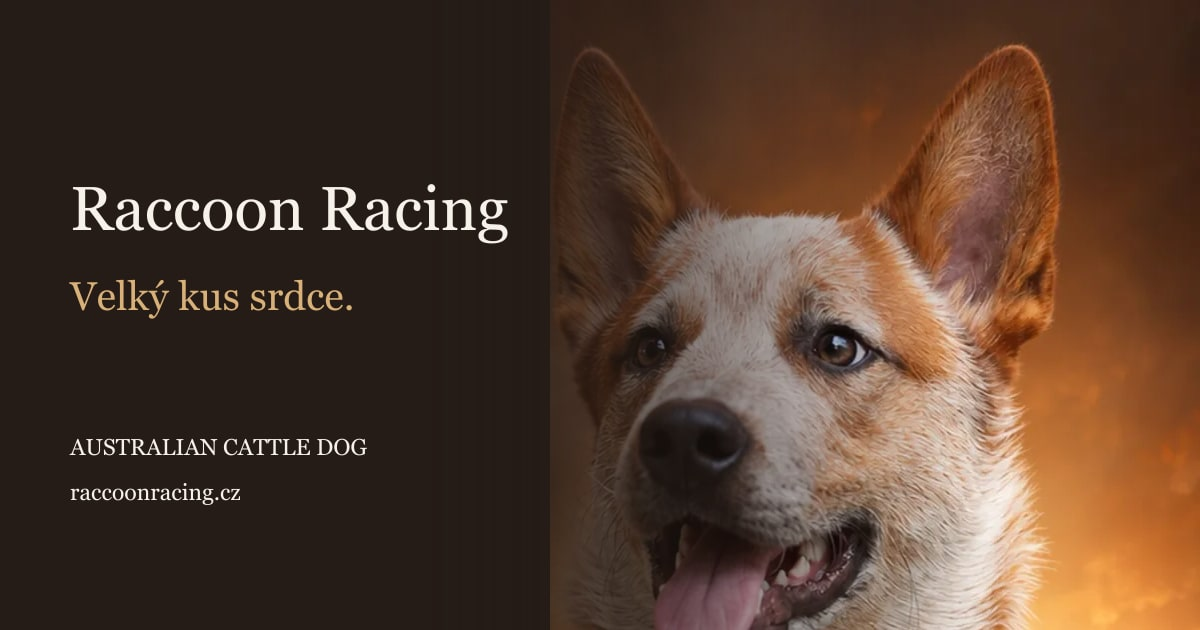
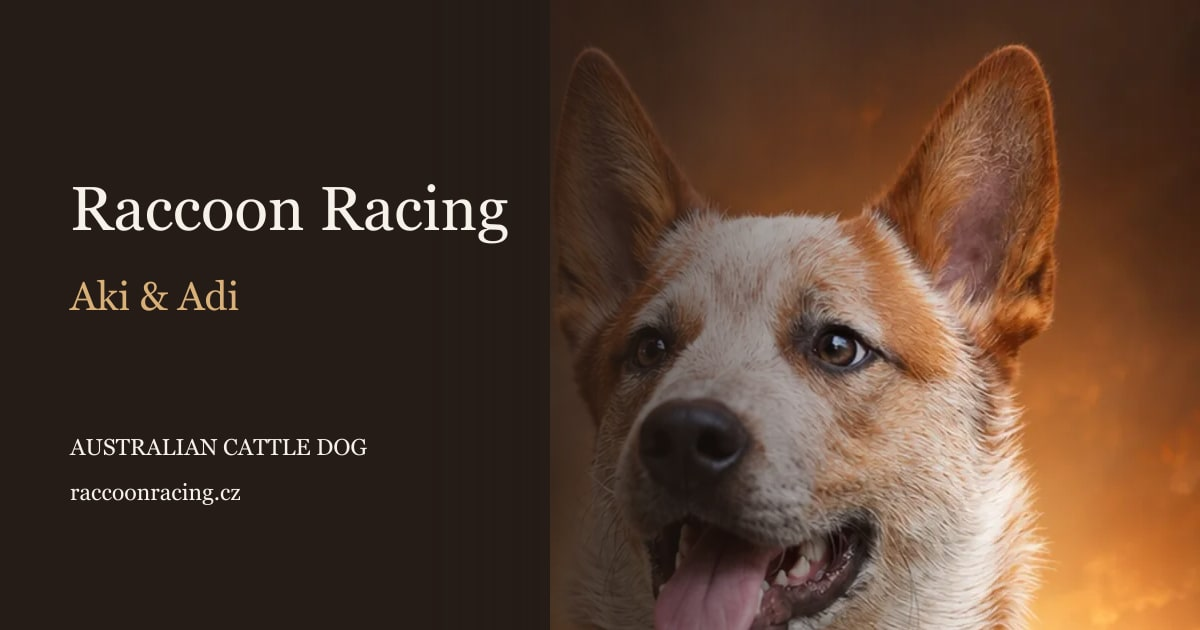
Present Aki and Adi as personal dog pages

Changed region(s): [[0.0617, 0.4222, 0.2775, 0.5127]]

diff --git a/src/styles/global.css b/src/styles/global.css
@@ -112,6 +112,17 @@ p{margin-bottom:20px}
 .health-facts{gap:5px}
 .health-facts>div{grid-template-columns:140px 1fr}
 .dog-copy .underlined-link{margin-top:12px}
+.adi-section{background:var(--cream)}
+.adi-section .dog-copy>p:not(.eyebrow):not(.pedigree-name){color:var(--muted)}
+.adi-facts{margin:25px 0}
+.adi-nameplate{min-height:540px;position:relative;display:flex;flex-direction:column;align-items:center;justify-content:center;padding:45px 25px;background:#eae4d9;border:1px solid #ded3c1;text-align:center;color:var(--copper)}
+.adi-nameplate-label,.adi-nameplate-breed,.adi-nameplate-foot{font-size:8px;letter-spacing:2px;font-weight:600}
+.adi-nameplate-label{position:absolute;top:32px}
+.adi-paw{width:145px;height:145px;stroke:#b99b79;stroke-width:1}
+.adi-name{font-family:var(--font-serif);font-size:115px;line-height:1.1;letter-spacing:-4px;margin:8px 0 18px}
+.adi-name>span{font-family:var(--font-sans);font-size:30px;letter-spacing:0;vertical-align:super;margin-left:15px}
+.adi-nameplate-foot{position:absolute;bottom:32px;font-size:7px;color:var(--muted)}
+@media(max-width:600px){.adi-nameplate{min-height:370px}.adi-paw{width:105px;height:105px}.adi-name{font-size:95px}.adi-nameplate-label{top:24px}.adi-nameplate-foot{bottom:24px}}
 .breed-section{background:#2b261f;color:var(--cream)}
 .breed-heading{display:grid;grid-template-columns:1.5fr 1fr;gap:110px;align-items:end}
 .breed-section .eyebrow{color:var(--gold)}
@@ -125,19 +136,19 @@ p{margin-bottom:20px}
 .breed-note>span{font-size:24px;color:var(--gold)}
 .breed-note p{font-size:12px;color:#c0b4a5;margin:0}
 .breed-note strong{color:#efe1cb;font-weight:500}
-.puppies-layout{display:grid;grid-template-columns:1fr 1fr;gap:100px;align-items:center}
-.puppies-layout>.puppy-process{background:#eee7db;padding:38px 40px}
-.puppies-layout>div>p:not(.eyebrow):not(.lead){color:var(--muted);font-size:13px}
-.puppies-layout .lead{margin-top:27px}
-.puppies-layout .button{margin-top:15px}
+.life-layout{display:grid;grid-template-columns:1fr 1fr;gap:100px;align-items:center}
+.life-layout>.life-notes{background:#eee7db;padding:38px 40px}
+.life-layout>div>p:not(.eyebrow):not(.lead){color:var(--muted);font-size:13px}
+.life-layout .lead{margin-top:27px}
+.life-layout .button{margin-top:15px}
 .availability{font-size:8px;letter-spacing:1.5px;font-weight:600;display:flex;align-items:center;gap:9px;border-bottom:1px solid #d9cebc;padding-bottom:23px;margin-bottom:26px}
 .availability>span{width:6px;height:6px;border-radius:50%;background:#9c703d}
-.puppy-process h3{font-family:var(--font-serif);font-size:31px;font-weight:500}
-.puppy-process ol{padding:0;list-style:none;margin:25px 0}
-.puppy-process li{display:flex;gap:22px;margin-bottom:23px}
-.puppy-process li>span{font-family:var(--font-serif);color:#99734d;font-size:25px;line-height:1.2}
-.puppy-process h4{font-size:12px;font-weight:700;margin:0 0 5px}
-.puppy-process li p{font-size:11px;color:var(--muted);line-height:1.8;margin:0}
+.life-notes h3{font-family:var(--font-serif);font-size:31px;font-weight:500}
+.life-notes ol{padding:0;list-style:none;margin:25px 0}
+.life-notes li{display:flex;gap:22px;margin-bottom:23px}
+.life-notes li>span{font-family:var(--font-serif);color:#99734d;font-size:25px;line-height:1.2}
+.life-notes h4{font-size:12px;font-weight:700;margin:0 0 5px}
+.life-notes li p{font-size:11px;color:var(--muted);line-height:1.8;margin:0}
 .small-note{font-size:10px;border-top:1px solid #d9cebc;padding-top:19px;color:var(--muted);margin-bottom:0}
 .gallery-section{padding-top:0}
 .gallery-heading{display:flex;align-items:flex-end;justify-content:space-between;margin-bottom:38px;gap:30px}
@@ -194,7 +205,7 @@ footer{background:#211a15;color:#bcae9d;padding:37px 0}
 .back-top{font-size:9px;display:flex;align-items:center;gap:18px}
 .back-top span{display:grid;place-items:center;border:1px solid #69523d;width:34px;height:34px;border-radius:50%;font-size:15px}
 @media(min-width:1600px){.hero-image{width:59%}.hero-content{padding-bottom:30px}}
-@media(max-width:1100px){.container{width:calc(100% - 70px)}.navigation{gap:19px}.brand>span{font-size:12px}.brand small{font-size:6px}.brand-mark{width:36px}.navigation .nav-contact{margin-left:0;padding:9px 12px;gap:15px}.section-intro,.dog-layout,.puppies-layout,.faq-layout{gap:55px}.breed-heading,.contact-heading{gap:60px}.dog-visual>img{height:550px}.profile-tabs{gap:17px}.profile-tabs button{font-size:9px}.principles{gap:35px}.gallery-card{height:340px}}
-@media(max-width:850px){.container{width:calc(100% - 48px)}.header-inner{height:80px}.brand>span{font-size:13px}.brand small{font-size:7px}.menu-toggle{display:block;border:1px solid #8a735b;background:transparent;color:var(--gold);width:40px;height:38px;font-size:20px}.navigation{display:none;position:absolute;left:0;right:0;top:80px;padding:23px 24px;background:#251c17;border-bottom:1px solid #8a735b;font-size:14px}.navigation.is-open{display:flex;flex-direction:column;align-items:stretch;gap:0}.navigation>a{padding:12px}.navigation .nav-contact{margin-top:15px;justify-content:space-between}.hero{height:720px;min-height:650px}.hero h1{font-size:72px}.hero .eyebrow{font-size:8px}.hero-image{width:80%}.hero-shade{background:linear-gradient(90deg,#241b16fa,#241b16a0 45%,#241b1610),linear-gradient(0deg,#241b16b3,transparent 50%)}.section{padding:80px 0}.section-intro{gap:40px}.section-intro h2{font-size:49px}.intro-copy .lead{font-size:15px}.intro-copy>p{font-size:12px}.principles{margin-top:50px;gap:27px}.principles h3{font-size:14px}.dog-layout{gap:35px}.dog-visual>img{height:530px}.dog-copy h2{font-size:63px}.dog-copy .eyebrow{font-size:9px}.profile-tabs{gap:12px;flex-wrap:wrap}.profile-tabs button{font-size:8px;padding-bottom:10px}.profile-facts>div{grid-template-columns:70px 1fr;font-size:10px}.tab-panel{min-height:325px}.health-facts>div{grid-template-columns:115px 1fr}.breed-heading{gap:40px}.breed-heading h2{font-size:52px}.breed-grid{gap:30px}.puppies-layout{gap:35px}.puppies-layout h2{font-size:52px}.puppies-layout>.puppy-process{padding:30px 25px}.puppies-layout .lead{font-size:15px}.puppy-process h3{font-size:27px}.gallery-section{padding-top:0}.gallery-grid{gap:12px}.gallery-card{height:300px}.gallery-overlay{padding:18px}.gallery-overlay>span{font-size:22px}.faq-layout{grid-template-columns:1fr 1.2fr;gap:40px}.faq-layout h2{font-size:43px}.contact-heading{gap:50px}.contact-heading h2{font-size:54px}.contacts{gap:50px}.contacts a{font-size:17px}.contacts h3{font-size:31px}}
-@media(max-width:600px){html{scroll-padding-top:25px}.container{width:calc(100% - 40px)}.section{padding:68px 0}.header-inner{height:76px}.navigation{top:76px}.brand-mark{width:34px}.brand>span{font-size:12px}.brand small{font-size:6px;letter-spacing:2.7px}.hero{height:720px;min-height:calc(100svh - 76px);max-height:850px;align-items:flex-start}.hero-image{width:100%;height:70%;top:auto;bottom:0}.hero-image img{object-position:60% 25%}.hero-shade{background:linear-gradient(180deg,#241b16 0%,#241b16f8 15%,#241b16b3 39%,#241b1620 69%,#241b16b3 100%),linear-gradient(90deg,#241b1670,transparent)}.hero-content{padding-top:48px;padding-bottom:0}.hero .eyebrow{font-size:7px;letter-spacing:1.2px;gap:9px;margin-bottom:25px}.little-line{width:20px}.hero h1{font-size:55px;letter-spacing:-2px;line-height:1.04}.hero-description{font-size:12px;margin-top:22px;margin-bottom:23px}.hero-actions{gap:24px}.button{font-size:10px;padding:13px 17px;gap:22px;min-height:49px}.hero .text-link{font-size:10px;gap:10px}.hero-bottom{bottom:24px}.hero-caption strong{font-size:29px}.hero-caption small{font-size:6px}.hero-caption>span{font-size:6px;letter-spacing:1.3px}.scroll-cue{font-size:6px;letter-spacing:1px;gap:10px}.scroll-cue>span{width:28px;height:37px;font-size:15px}.values-strip{padding:17px 0}.values-strip .container{display:grid;grid-template-columns:1fr auto 1fr;gap:10px;text-align:center}.values-strip span{font-size:7px;letter-spacing:1px}.values-strip span:nth-of-type(n+3),.values-strip i:nth-of-type(n+2){display:none}.values-strip i{font-size:13px}h2{font-size:48px;letter-spacing:-1.7px}.eyebrow{font-size:8px;letter-spacing:1.8px;margin-bottom:22px}.section-intro,.dog-layout,.breed-heading,.puppies-layout,.faq-layout,.contact-heading{grid-template-columns:1fr;gap:30px}.section-intro h2{font-size:50px}.intro-copy{padding:0}.intro-copy .lead{font-size:15px}.intro-copy>p{font-size:13px}.principles{grid-template-columns:1fr;gap:26px;margin-top:40px;padding-top:30px}.principles article{display:grid;grid-template-columns:35px 1fr;column-gap:15px}.principle-number{grid-row:span 2;margin:0;font-size:25px}.principles h3{font-size:15px;margin-bottom:10px}.principles p{font-size:12px}.dog-layout{gap:40px}.dog-visual{margin-right:10px}.dog-visual>img{height:440px}.dog-number{font-size:80px;top:-22px;right:-14px}.photo-label{font-size:6px;padding-inline:18px}.dog-copy h2{font-size:68px}.dog-copy .eyebrow{font-size:8px}.pedigree-name{margin-bottom:18px}.profile-tabs{gap:23px}.profile-tabs button{font-size:10px}.tab-panel{min-height:280px;font-size:13px}.profile-facts>div{grid-template-columns:85px 1fr;font-size:11px}.health-facts>div{grid-template-columns:140px 1fr}.breed-heading h2{font-size:49px}.breed-heading>p{max-width:none;font-size:13px}.breed-grid{grid-template-columns:1fr;margin-top:40px;gap:30px}.breed-grid article{display:grid;grid-template-columns:30px 1fr;gap:0 20px}.breed-icon{grid-row:span 2;font-size:29px}.breed-grid h3{font-size:15px;margin-bottom:10px}.breed-grid p{font-size:12px}.breed-note{margin-top:35px;gap:15px;align-items:flex-start}.breed-note p{font-size:11px}.puppies-layout h2{font-size:49px}.puppies-layout{gap:35px}.puppies-layout>.puppy-process{padding:30px}.puppies-layout .lead{font-size:15px}.gallery-section{padding-top:0}.gallery-heading{display:block;margin-bottom:26px}.gallery-heading h2{font-size:48px}.gallery-heading>p{margin-top:23px;font-size:11px}.gallery-grid{grid-template-columns:1fr 1fr;gap:13px}.gallery-card{height:280px}.gallery-card-0{grid-column:span 2;height:380px}.gallery-overlay{padding:18px}.gallery-overlay>span{font-size:23px}.gallery-card:not(.gallery-card-0) .gallery-overlay>span{font-size:21px}.gallery-overlay small{font-size:6px;letter-spacing:1px}.faq-layout{gap:24px}.faq-layout h2{font-size:47px}.faq-layout>div>p:not(.eyebrow){max-width:none}.faq-item h3 button{font-size:12px;padding-block:20px}.faq-item p{padding-right:15px}.contact-heading h2{font-size:50px}.contact-heading>p{font-size:13px;max-width:none}.contacts{grid-template-columns:1fr;gap:32px;margin-top:35px}.contacts article{gap:19px;padding-top:23px}.contacts h3{font-size:32px;margin-bottom:12px}.contacts a{font-size:21px}.contacts a.email{font-size:12px}.contact-footnote{margin-top:30px;display:block;font-size:6px;line-height:2.5}.contact-footnote>span{display:block}.footer-inner{flex-wrap:wrap;gap:23px}.footer-brand{font-size:12px}.footer-inner p{font-size:8px}.back-top{width:100%;justify-content:space-between;border-top:1px solid #ffffff15;padding-top:20px}}
+@media(max-width:1100px){.container{width:calc(100% - 70px)}.navigation{gap:19px}.brand>span{font-size:12px}.brand small{font-size:6px}.brand-mark{width:36px}.navigation .nav-contact{margin-left:0;padding:9px 12px;gap:15px}.section-intro,.dog-layout,.life-layout,.faq-layout{gap:55px}.breed-heading,.contact-heading{gap:60px}.dog-visual>img{height:550px}.profile-tabs{gap:17px}.profile-tabs button{font-size:9px}.principles{gap:35px}.gallery-card{height:340px}}
+@media(max-width:850px){.container{width:calc(100% - 48px)}.header-inner{height:80px}.brand>span{font-size:13px}.brand small{font-size:7px}.menu-toggle{display:block;border:1px solid #8a735b;background:transparent;color:var(--gold);width:40px;height:38px;font-size:20px}.navigation{display:none;position:absolute;left:0;right:0;top:80px;padding:23px 24px;background:#251c17;border-bottom:1px solid #8a735b;font-size:14px}.navigation.is-open{display:flex;flex-direction:column;align-items:stretch;gap:0}.navigation>a{padding:12px}.navigation .nav-contact{margin-top:15px;justify-content:space-between}.hero{height:720px;min-height:650px}.hero h1{font-size:72px}.hero .eyebrow{font-size:8px}.hero-image{width:80%}.hero-shade{background:linear-gradient(90deg,#241b16fa,#241b16a0 45%,#241b1610),linear-gradient(0deg,#241b16b3,transparent 50%)}.section{padding:80px 0}.section-intro{gap:40px}.section-intro h2{font-size:49px}.intro-copy .lead{font-size:15px}.intro-copy>p{font-size:12px}.principles{margin-top:50px;gap:27px}.principles h3{font-size:14px}.dog-layout{gap:35px}.dog-visual>img{height:530px}.dog-copy h2{font-size:63px}.dog-copy .eyebrow{font-size:9px}.profile-tabs{gap:12px;flex-wrap:wrap}.profile-tabs button{font-size:8px;padding-bottom:10px}.profile-facts>div{grid-template-columns:70px 1fr;font-size:10px}.tab-panel{min-height:325px}.health-facts>div{grid-template-columns:115px 1fr}.breed-heading{gap:40px}.breed-heading h2{font-size:52px}.breed-grid{gap:30px}.life-layout{gap:35px}.life-layout h2{font-size:52px}.life-layout>.life-notes{padding:30px 25px}.life-layout .lead{font-size:15px}.life-notes h3{font-size:27px}.gallery-section{padding-top:0}.gallery-grid{gap:12px}.gallery-card{height:300px}.gallery-overlay{padding:18px}.gallery-overlay>span{font-size:22px}.faq-layout{grid-template-columns:1fr 1.2fr;gap:40px}.faq-layout h2{font-size:43px}.contact-heading{gap:50px}.contact-heading h2{font-size:54px}.contacts{gap:50px}.contacts a{font-size:17px}.contacts h3{font-size:31px}}
+@media(max-width:600px){html{scroll-padding-top:25px}.container{width:calc(100% - 40px)}.section{padding:68px 0}.header-inner{height:76px}.navigation{top:76px}.brand-mark{width:34px}.brand>span{font-size:12px}.brand small{font-size:6px;letter-spacing:2.7px}.hero{height:720px;min-height:calc(100svh - 76px);max-height:850px;align-items:flex-start}.hero-image{width:100%;height:70%;top:auto;bottom:0}.hero-image img{object-position:60% 25%}.hero-shade{background:linear-gradient(180deg,#241b16 0%,#241b16f8 15%,#241b16b3 39%,#241b1620 69%,#241b16b3 100%),linear-gradient(90deg,#241b1670,transparent)}.hero-content{padding-top:48px;padding-bottom:0}.hero .eyebrow{font-size:7px;letter-spacing:1.2px;gap:9px;margin-bottom:25px}.little-line{width:20px}.hero h1{font-size:55px;letter-spacing:-2px;line-height:1.04}.hero-description{font-size:12px;margin-top:22px;margin-bottom:23px}.hero-actions{gap:24px}.button{font-size:10px;padding:13px 17px;gap:22px;min-height:49px}.hero .text-link{font-size:10px;gap:10px}.hero-bottom{bottom:24px}.hero-caption strong{font-size:29px}.hero-caption small{font-size:6px}.hero-caption>span{font-size:6px;letter-spacing:1.3px}.scroll-cue{font-size:6px;letter-spacing:1px;gap:10px}.scroll-cue>span{width:28px;height:37px;font-size:15px}.values-strip{padding:17px 0}.values-strip .container{display:grid;grid-template-columns:1fr auto 1fr;gap:10px;text-align:center}.values-strip span{font-size:7px;letter-spacing:1px}.values-strip span:nth-of-type(n+3),.values-strip i:nth-of-type(n+2){display:none}.values-strip i{font-size:13px}h2{font-size:48px;letter-spacing:-1.7px}.eyebrow{font-size:8px;letter-spacing:1.8px;margin-bottom:22px}.section-intro,.dog-layout,.breed-heading,.life-layout,.faq-layout,.contact-heading{grid-template-columns:1fr;gap:30px}.section-intro h2{font-size:50px}.intro-copy{padding:0}.intro-copy .lead{font-size:15px}.intro-copy>p{font-size:13px}.principles{grid-template-columns:1fr;gap:26px;margin-top:40px;padding-top:30px}.principles article{display:grid;grid-template-columns:35px 1fr;column-gap:15px}.principle-number{grid-row:span 2;margin:0;font-size:25px}.principles h3{font-size:15px;margin-bottom:10px}.principles p{font-size:12px}.dog-layout{gap:40px}.dog-visual{margin-right:10px}.dog-visual>img{height:440px}.dog-number{font-size:80px;top:-22px;right:-14px}.photo-label{font-size:6px;padding-inline:18px}.dog-copy h2{font-size:68px}.dog-copy .eyebrow{font-size:8px}.pedigree-name{margin-bottom:18px}.profile-tabs{gap:23px}.profile-tabs button{font-size:10px}.tab-panel{min-height:280px;font-size:13px}.profile-facts>div{grid-template-columns:85px 1fr;font-size:11px}.health-facts>div{grid-template-columns:140px 1fr}.breed-heading h2{font-size:49px}.breed-heading>p{max-width:none;font-size:13px}.breed-grid{grid-template-columns:1fr;margin-top:40px;gap:30px}.breed-grid article{display:grid;grid-template-columns:30px 1fr;gap:0 20px}.breed-icon{grid-row:span 2;font-size:29px}.breed-grid h3{font-size:15px;margin-bottom:10px}.breed-grid p{font-size:12px}.breed-note{margin-top:35px;gap:15px;align-items:flex-start}.breed-note p{font-size:11px}.life-layout h2{font-size:49px}.life-layout{gap:35px}.life-layout>.life-notes{padding:30px}.life-layout .lead{font-size:15px}.gallery-section{padding-top:0}.gallery-heading{display:block;margin-bottom:26px}.gallery-heading h2{font-size:48px}.gallery-heading>p{margin-top:23px;font-size:11px}.gallery-grid{grid-template-columns:1fr 1fr;gap:13px}.gallery-card{height:280px}.gallery-card-0{grid-column:span 2;height:380px}.gallery-overlay{padding:18px}.gallery-overlay>span{font-size:23px}.gallery-card:not(.gallery-card-0) .gallery-overlay>span{font-size:21px}.gallery-overlay small{font-size:6px;letter-spacing:1px}.faq-layout{gap:24px}.faq-layout h2{font-size:47px}.faq-layout>div>p:not(.eyebrow){max-width:none}.faq-item h3 button{font-size:12px;padding-block:20px}.faq-item p{padding-right:15px}.contact-heading h2{font-size:50px}.contact-heading>p{font-size:13px;max-width:none}.contacts{grid-template-columns:1fr;gap:32px;margin-top:35px}.contacts article{gap:19px;padding-top:23px}.contacts h3{font-size:32px;margin-bottom:12px}.contacts a{font-size:21px}.contacts a.email{font-size:12px}.contact-footnote{margin-top:30px;display:block;font-size:6px;line-height:2.5}.contact-footnote>span{display:block}.footer-inner{flex-wrap:wrap;gap:23px}.footer-brand{font-size:12px}.footer-inner p{font-size:8px}.back-top{width:100%;justify-content:space-between;border-top:1px solid #ffffff15;padding-top:20px}}
 @media(prefers-reduced-motion:reduce){html{scroll-behavior:auto}*,*::before,*::after{animation:none!important;transition:none!important}}

diff --git a/src/data/content.ts b/src/data/content.ts
@@ -1,8 +1,8 @@
 export const navigation = [
-  { href: '#o-nas', label: 'O nás' },
-  { href: '#nasi-psi', label: 'Naši psi' },
+  { href: '#o-nas', label: 'Náš svět' },
+  { href: '#aki', label: 'Aki' },
+  { href: '#adi', label: 'Adi' },
   { href: '#plemeno', label: 'O plemeni' },
-  { href: '#stenata', label: 'Štěňata' },
   { href: '#galerie', label: 'Galerie' },
 ];
 
@@ -12,9 +12,9 @@ export const contacts = [
 ];
 
 export const questions = [
-  { question: 'Je honácký pes vhodný pro začátečníka?', answer: 'Může být, pokud jste připraveni učit se společně s ním a věnovat mu každý den čas. Je to bystrý, samostatný pes s pracovním založením. Potřebuje laskavé, srozumitelné vedení a dobře nastavený odpočinek. Před rozhodnutím doporučujeme osobní setkání s plemenem.' },
-  { question: 'Musíme bydlet v domě se zahradou?', answer: 'Samotná zahrada spokojeného psa nevychová. Důležitější je společný čas, pravidelné venčení, zaměstnání hlavy a možnost v klidu odpočívat. Vhodnost konkrétního prostředí s vámi rádi probereme podle vašeho životního stylu.' },
-  { question: 'Jak se dozvím o plánovaném vrhu?', answer: 'Napište nebo zavolejte Zdeňkovi či Petře. Rádi vám sdělíme aktuální informace a probereme vaše představy. Termín vrhu ani dostupnost štěňat na webu neuvádíme, dokud nejsou potvrzené.' },
-  { question: 'Co mám napsat při prvním kontaktu?', answer: 'Povězte nám něco o sobě: jak žijete, jaké máte zkušenosti se psy, kolik času můžete novému parťákovi věnovat a co byste s ním chtěli podnikat. Nemusíte mít sportovní ambice. Zajímá nás především představa o společném životě.' },
-  { question: 'Můžeme se přijet nejprve seznámit?', answer: 'Osobní seznámení je nejlepší začátek. Ozvěte se nám a domluvíme možnosti a termín návštěvy. Budete mít prostor poznat povahu honáckého psa a zeptat se na vše, co vás zajímá.' },
+  { question: 'Kdo jsou Aki a Adi?', answer: 'Aki je pes a Adi fenka. Oba jsou australští honáčtí psi a právě jim patří Raccoon Racing. Na těchto osobních stránkách je představujeme spolu s plemenem, které nás spojuje.' },
+  { question: 'Co znamená jméno Akarni Flameborn Linden Algona?', answer: 'Je to celé jméno Akiho uvedené v jeho rodokmenu. Doma a na našich stránkách mu říkáme prostě Aki. V jeho profilu najdete také údaje o rodičích, zdraví, výstavách a zkouškách z prezentačního plakátu.' },
+  { question: 'Co najdete v galerii?', answer: 'Současná galerie patří Akimu. Portrét a postoj jsou výřezy z jeho prezentačního plakátu. Ten si můžete otevřít i celý a prohlédnout si všechny detaily. Každý obrázek nese popisek, takže vždy víte, na co se díváte.' },
+  { question: 'Co je na honácích tak zajímavého?', answer: 'Na australském honáckém psovi nás přitahuje spojení bystré hlavy, pracovního založení a vztahu k člověku. Každý pes přitom zůstává sám sebou. Aki a Adi tak mají každý svůj vlastní příběh.' },
+  { question: 'Můžeme vám napsat i o svém psovi?', answer: 'Určitě. Zajímá nás, jak žijete se svými psími parťáky, co vás společně baví nebo co vás na honácích zaujalo. Ozvěte se Zdeňkovi nebo Petře — kontakty najdete hned pod těmito otázkami.' },
 ];

diff --git a/src/components/DogProfile.tsx b/src/components/DogProfile.tsx
@@ -1,9 +1,9 @@
 import { useState } from 'react';
 
 const tabs = [
-  { title: 'Představení', content: <><p>Uhrančivý pohled, červeně tečkovaná srst a pozornost, které nic neunikne. Seznamte se s Akim, australským honáckým psem jménem Akarni Flameborn Linden Algona.</p><dl className="profile-facts"><div><dt>Narozen</dt><dd>19. 11. 2025</dd></div><div><dt>Otec</dt><dd>Tablerock Heezfrom Downunder</dd></div><div><dt>Matka</dt><dd>Haruka Red Heeler Ara</dd></div></dl></> },
-  { title: 'Zdraví', content: <><p>Zdravotní údaje podle dodaného prezentačního plakátu. Podrobnosti a příslušné výsledky s vámi rádi projdeme osobně.</p><dl className="profile-facts health-facts"><div><dt>PRA</dt><dd>N/P</dd></div><div><dt>PRA rcd4 · PLL</dt><dd>N/N · N/N</dd></div><div><dt>NCL5 · NCL12 · DM</dt><dd>N/N · N/N · N/N</dd></div><div><dt>MC · Cyst.</dt><dd>N/N · N/N</dd></div><div><dt>Sluch</dt><dd>BAER OK</dd></div></dl></> },
-  { title: 'Výstavy a zkoušky', content: <><p>Práce, společné zážitky i zkušenosti z výstavního kruhu. Údaje vycházejí z Akiho prezentačního plakátu.</p><dl className="profile-facts"><div><dt>Výstavy</dt><dd>3× BOMP, BOP</dd></div><div><dt>World Dog Show Bologna</dt><dd>Very promising</dd></div><div><dt>Zkoušky</dt><dd>NHAT</dd></div></dl></> },
+  { title: 'O Akim', content: <><p>Aki je náš australský honácký pes s červeně tečkovanou srstí. Celým jménem Akarni Flameborn Linden Algona, pro nás prostě Aki. Spolu s Adi je hlavní postavou těchto stránek.</p><dl className="profile-facts"><div><dt>Narozen</dt><dd>19. 11. 2025</dd></div><div><dt>Otec</dt><dd>Tablerock Heezfrom Downunder</dd></div><div><dt>Matka</dt><dd>Haruka Red Heeler Ara</dd></div></dl></> },
+  { title: 'Zdraví', content: <><p>K Akiho příběhu patří i jeho zdravotní výsledky. Zde je přehled údajů uvedených na jeho prezentačním plakátu.</p><dl className="profile-facts health-facts"><div><dt>PRA</dt><dd>N/P</dd></div><div><dt>PRA rcd4 · PLL</dt><dd>N/N · N/N</dd></div><div><dt>NCL5 · NCL12 · DM</dt><dd>N/N · N/N · N/N</dd></div><div><dt>MC · Cyst.</dt><dd>N/N · N/N</dd></div><div><dt>Sluch</dt><dd>BAER OK</dd></div></dl></> },
+  { title: 'Výstavy a zkoušky', content: <><p>Další střípky z Akiho světa: výstavní hodnocení a zkouška NHAT. Přehled přebírá údaje z jeho prezentačního plakátu.</p><dl className="profile-facts"><div><dt>Výstavy</dt><dd>3× BOMP, BOP</dd></div><div><dt>World Dog Show Bologna</dt><dd>Very promising</dd></div><div><dt>Zkoušky</dt><dd>NHAT</dd></div></dl></> },
 ];
 
 export default function DogProfile() {

diff --git a/src/components/Gallery.tsx b/src/components/Gallery.tsx
@@ -11,9 +11,9 @@ import 'yet-another-react-lightbox/plugins/counter.css';
 import 'yet-another-react-lightbox/plugins/thumbnails.css';
 
 const photos = [
-  { src: '/images/aki-portrait.webp', width: 800, height: 1152, title: 'Pohled, který vám neunikne', tag: 'AKI · PORTRÉT', alt: 'Portrét červeně tečkovaného australského honáckého psa Akiho' },
-  { src: '/images/aki-standing.webp', width: 900, height: 859, title: 'Honák každým coulem', tag: 'AKI · EXTERIÉR', alt: 'Aki v postoji ve zlatém večerním světle' },
-  { src: '/images/aki-poster.webp', width: 1122, height: 1402, title: 'Seznamte se s Akim', tag: 'AKI · PREZENTAČNÍ PLAKÁT', alt: 'Celý prezentační plakát Akiho s rodokmenem a výsledky' },
+  { src: '/images/aki-portrait.webp', width: 800, height: 1152, title: 'Aki zblízka', tag: 'AKI · PORTRÉT', alt: 'Aki, pes plemene australský honácký pes, na portrétu z plakátu' },
+  { src: '/images/aki-standing.webp', width: 900, height: 859, title: 'Tohle je Aki', tag: 'AKI · V POSTOJI', alt: 'Aki v postoji ve zlatém světle, výřez z jeho plakátu' },
+  { src: '/images/aki-poster.webp', width: 1122, height: 1402, title: 'Aki na jednom plakátu', tag: 'AKI · CELÝ PLAKÁT', alt: 'Akiho prezentační plakát s portréty, rodiči a výsledky' },
 ];
 const slides = photos.map(({ title, ...photo }) => ({ ...photo, description: title }));
 

diff --git a/src/components/Navigation.tsx b/src/components/Navigation.tsx
@@ -7,7 +7,7 @@ export default function Navigation() {
     <button className="menu-toggle" type="button" aria-expanded={open} aria-controls="main-navigation" onClick={() => setOpen(!open)} aria-label={open ? 'Zavřít menu' : 'Otevřít menu'}><span>{open ? '✕' : '☰'}</span></button>
     <nav id="main-navigation" className={`navigation ${open ? 'is-open' : ''}`} aria-label="Hlavní navigace">
       {navigation.map(item => <a key={item.href} href={item.href} onClick={() => setOpen(false)}>{item.label}</a>)}
-      <a className="nav-contact" href="#kontakt" onClick={() => setOpen(false)}>Poznejme se <span aria-hidden="true">↗</span></a>
+      <a className="nav-contact" href="#kontakt" onClick={() => setOpen(false)}>Napište nám <span aria-hidden="true">↗</span></a>
     </nav>
   </>;
 }

diff --git a/README.md b/README.md
@@ -1,6 +1,6 @@
 # Raccoon Racing
 
-Český prezentační web chovné stanice australského honáckého psa. Astro, Tailwind CSS 4 a interaktivní React islands; TypeScript v přísném režimu. Stránka se sestavuje do statického HTML.
+Osobní české stránky psa Akiho a fenky Adi, dvou australských honáckých psů. Za webem Raccoon Racing stojí Zdeněk Severa a Petra Kmetková. Astro, Tailwind CSS 4 a interaktivní React islands; TypeScript v přísném režimu. Stránka se sestavuje do statického HTML.
 
 ## Spuštění
 
@@ -38,7 +38,7 @@ npm run prepare:images # znovu vytvoří WebP výřezy ze zdrojových PNG
 
 Fonty jsou servírované lokálně přes Fontsource. Web nepoužívá analytiku, externí fotografie, cookies ani nefunkční kontaktní formulář. Telefonní a e-mailové odkazy otevírají příslušnou aplikaci návštěvníka.
 
-Údaje o Akim jsou přepsané z dodaného plakátu. Texty o přístupu stanice jsou návrhem k redakčnímu schválení. Před veřejným nasazením ověřte zejména datum narození, výstavní a zdravotní výsledky a oficiální název stanice. Dostupnost štěňat ani termíny vrhů nejsou vymyšlené; návštěvník je odkázán na osobní kontakt. Další psy a skutečné fotografie lze doplnit do stejné struktury.
+Web má osobní zaměření: představení Akiho a Adi, náš společný svět, plemeno, fotografie a kontakt na lidi za webem. Údaje o Akim jsou přepsané z dodaného plakátu. O Adi jsou uvedené pouze potvrzené informace: jméno, pohlaví a plemeno. Její datum narození, původ ani výsledky se nevymýšlejí. Galerie a úvodní fotografie zobrazují Akiho a jsou tak označené; Adi má vlastní typografickou vizitku. Její fotografii lze doplnit, až bude k dispozici. Texty o společném životě jsou redakční návrh bez smyšlených konkrétních událostí či úspěchů.
 
 ## SEO a indexace
 
@@ -48,7 +48,7 @@ Produkční doména je `https://raccoonracing.cz/`. Je jednotně použita v cano
 - Pro neveřejnou testovací kopii nastavte `INDEXING_ENABLED=false` a znovu spusťte build. Sitemap pak neobsahuje URL a robots na ni neodkazuje. Robots umožňuje načtení stránky, aby vyhledávač mohl přečíst `noindex`.
 - `src/pages/robots.txt.ts` a `src/pages/sitemap.xml.ts` generují skutečné statické soubory `dist/robots.txt` a `dist/sitemap.xml` při každém sestavení.
 - Sitemap obsahuje hlavní stránku. Sekce s `#fragmentem`, obrázky ani chybová stránka nejsou samostatné indexované stránky. Není přidáváno smyšlené datum změny při každém buildu.
-- `src/components/Seo.astro` obsahuje title, description, canonical, Open Graph, Twitter Cards a JSON-LD typů Organization, WebSite a WebPage. Neuvádí vymyšlenou adresu, hodnocení ani dostupnost štěňat.
+- `src/components/Seo.astro` obsahuje title, description, canonical, Open Graph, Twitter Cards a JSON-LD pro osobní web: Person (Zdeněk a Petra), WebSite, WebPage a Thing (Aki a Adi jako témata stránky). Neuvádí vymyšlenou adresu, hodnocení ani komerční nabídku.
 - Náhled pro sdílení je `public/images/social-card.jpg` (1200 × 630).
 - Všechny profilové záložky i odpovědi FAQ jsou už v serverem sestaveném HTML, takže jejich načtení nezávisí na spuštění Reactu.
 - `404.html` má vlastní `noindex` a nenastavuje canonical na hlavní stránku.
